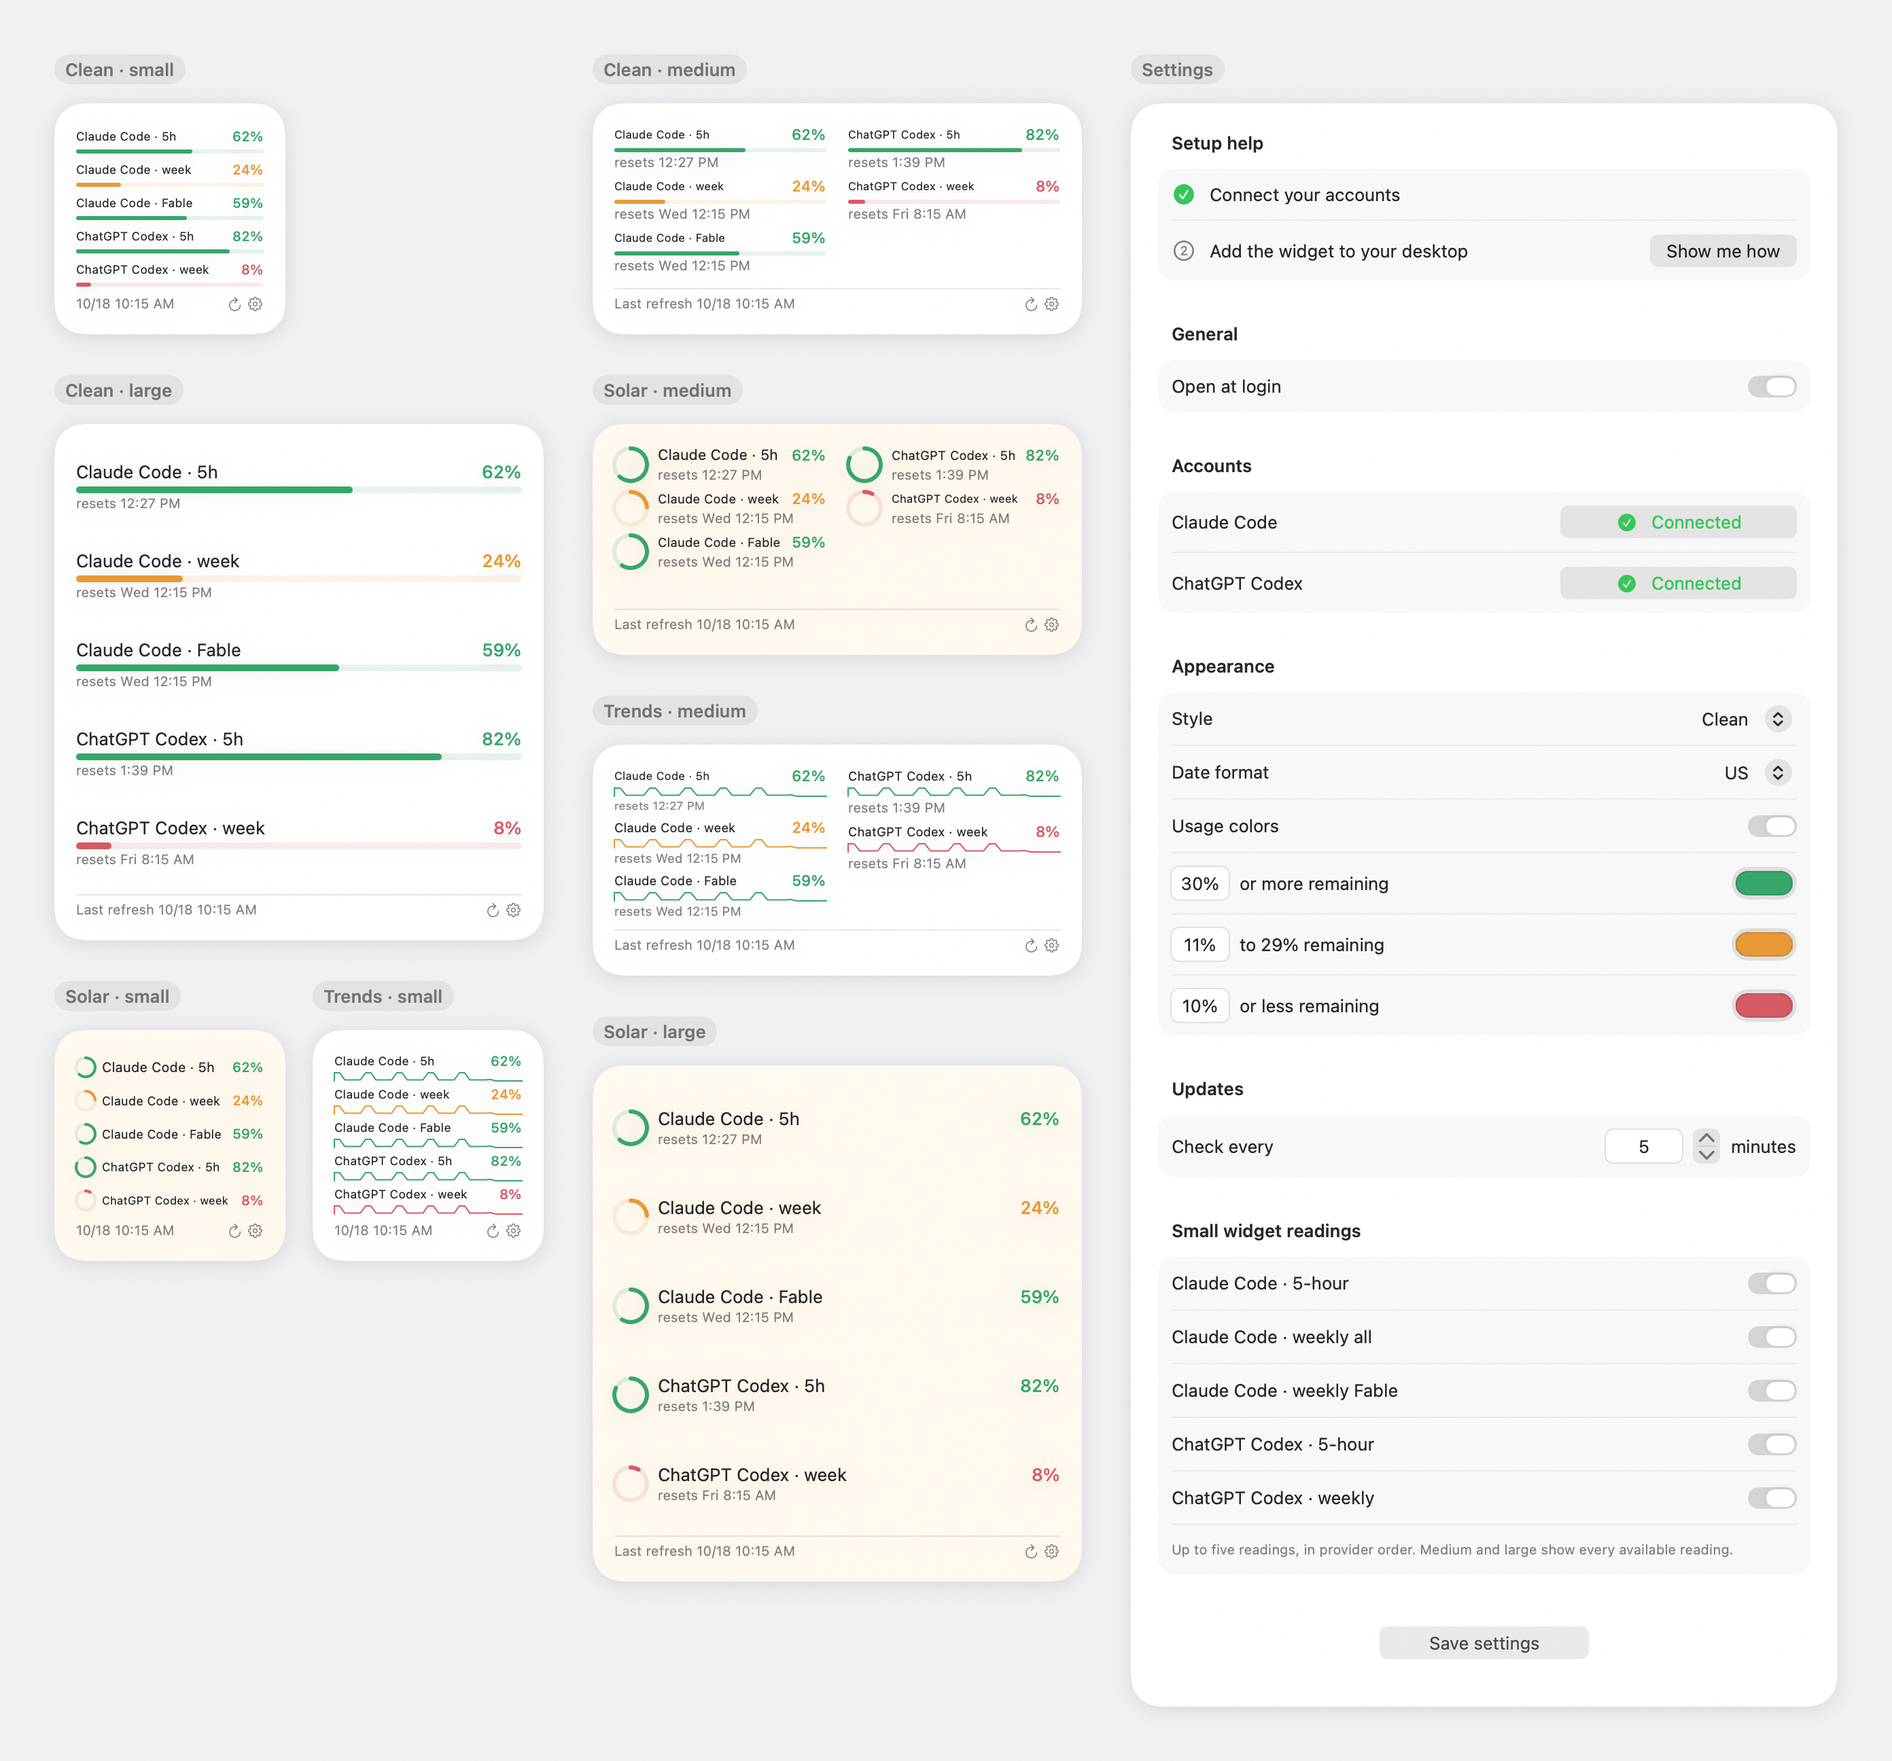
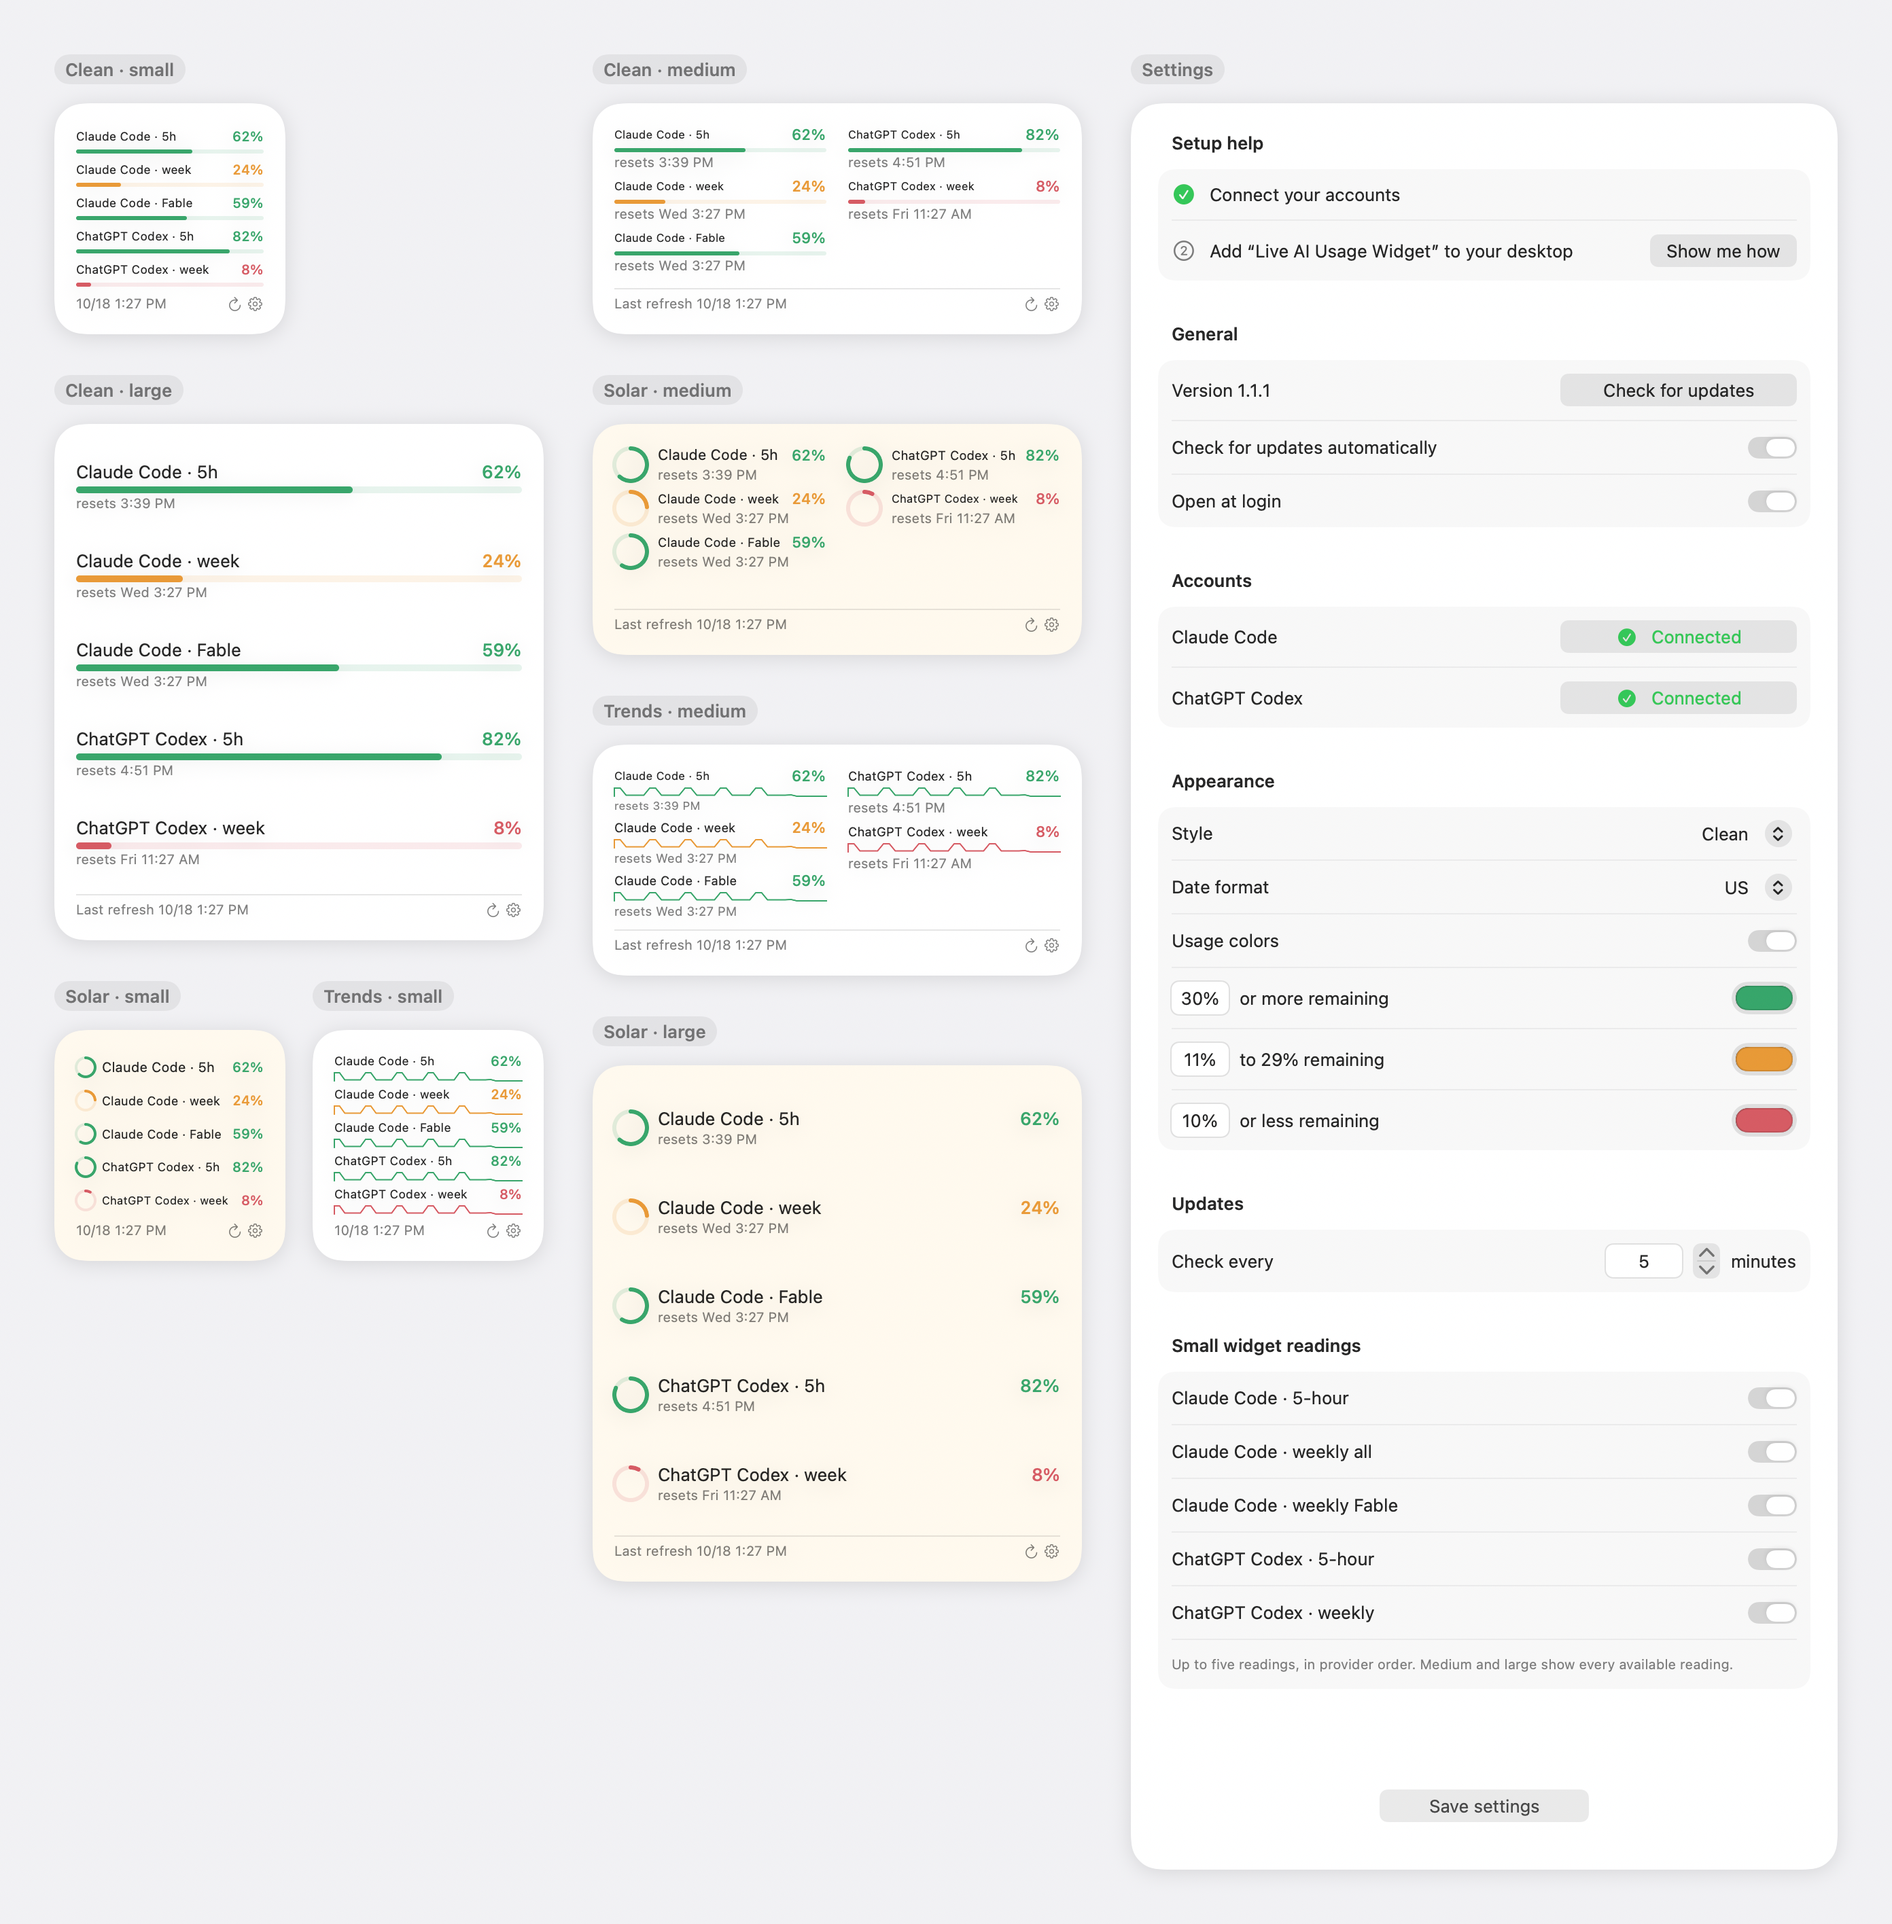
Live AI Usage Widget 1.1.1

diff --git a/tests/RenderOverview.swift b/tests/RenderOverview.swift
@@ -8,9 +8,8 @@ import SwiftUI
         let app = NSApplication.shared
         app.appearance = NSAppearance(named: .aqua)
         let output = URL(fileURLWithPath: CommandLine.arguments[1])
-        var components = Calendar.current.dateComponents([.year, .month, .day], from: Date())
-        components.hour = 10; components.minute = 15
-        let now = Calendar.current.date(from: components)!
+        // Readings must be fresh for accounts to show as connected.
+        let now = Date()
         let hour: TimeInterval = 3600
         let ok = UsageRefresh(status: .ok, lastAttemptAt: now, lastSuccessAt: now, lastFailureAt: nil, failureReason: nil)
         let claude = [UsageWindow(window: "5-hour", usedPercent: 38, resetsAt: now.addingTimeInterval(2.2 * hour)),
@@ -38,6 +37,7 @@ import SwiftUI
         settings.autoDetected = true
         WidgetSettings.sample = settings
         SettingsView.sample = true
+        UsageModel.sampleVersion = CommandLine.arguments.count > 2 ? CommandLine.arguments[2] : nil
 
         func widget(_ style: String, _ size: String) -> some View {
             var copy = settings; copy.style = style
@@ -61,7 +61,7 @@ import SwiftUI
         model.timer?.invalidate()
         model.settings = settings
         model.status = status
-        let settingsHeight: CGFloat = 1180
+        let settingsHeight: CGFloat = 1300
         let host = NSHostingView(rootView: SettingsView(model: model).frame(width: 520, height: settingsHeight))
         host.frame = NSRect(x: 0, y: 0, width: 520, height: settingsHeight)
         let window = NSWindow(contentRect: host.frame, styleMask: [.borderless], backing: .buffered, defer: false)

diff --git a/App/UsageApp.swift b/App/UsageApp.swift
@@ -46,10 +46,12 @@ import Combine
             message = "Saved"
         } catch { message = "Couldn't save settings. Check the color percentages, or reinstall the app." }
     }
-    static var version: String { Bundle.main.object(forInfoDictionaryKey: "CFBundleShortVersionString") as? String ?? "" }
+    /// Set only by the README picture renderer, which has no app bundle.
+    nonisolated(unsafe) static var sampleVersion: String?
+    static var version: String { sampleVersion ?? Bundle.main.object(forInfoDictionaryKey: "CFBundleShortVersionString") as? String ?? "" }
     /// Checks GitHub at launch and then once a day when automatic checks are on; `manual` checks right away.
     func checkForUpdates(manual: Bool = false) {
-        guard manual || (settings.autoUpdates && Date().timeIntervalSince(lastUpdateCheck) >= 86400) else { return }
+        guard !SettingsView.sample, manual || (settings.autoUpdates && Date().timeIntervalSince(lastUpdateCheck) >= 86400) else { return }
         guard updateStatus != "Downloading…" else { return }
         lastUpdateCheck = Date()
         if manual { updateStatus = "Checking…" }

diff --git a/Helper/Reader.swift b/Helper/Reader.swift
@@ -142,7 +142,7 @@ enum UsageReader {
     static func codex(directory: URL, binary: String? = nil, timeout: Double = 15) throws -> [String: Any] {
         let child = try ChildProcess(binary: binary ?? find("codex"), arguments: ["app-server", "--listen", "stdio://"], directory: directory.path)
         defer { child.stop() }
-        try child.sendJSON(["id": 0, "method": "initialize", "params": ["clientInfo": ["name": "live_ai_usage_widget", "title": "Live AI Usage Widget", "version": "1.1.0"]]])
+        try child.sendJSON(["id": 0, "method": "initialize", "params": ["clientInfo": ["name": "live_ai_usage_widget", "title": "Live AI Usage Widget", "version": "1.1.1"]]])
         let start = ProcessInfo.processInfo.systemUptime
         var pending = Data(), total = 0, initialized = false
         while ProcessInfo.processInfo.systemUptime - start < timeout {

diff --git a/scripts/build.py b/scripts/build.py
@@ -34,8 +34,8 @@ def main():
     for folder, executable, bundle, kind in [(app, 'UsageWidget', args.bundle_id, 'APPL'),
                                             (extension, 'UsageWidgetExtension', args.bundle_id + '.widget', 'XPC!')]:
         info = dict(CFBundleDisplayName='Live AI Usage Widget', CFBundleName='Live AI Usage Widget', CFBundleExecutable=executable,
-                    CFBundleIdentifier=bundle, CFBundlePackageType=kind, CFBundleVersion='21',
-                    CFBundleShortVersionString='1.1.0', LSMinimumSystemVersion='14.0', UsageAppGroup=group)
+                    CFBundleIdentifier=bundle, CFBundlePackageType=kind, CFBundleVersion='22',
+                    CFBundleShortVersionString='1.1.1', LSMinimumSystemVersion='14.0', UsageAppGroup=group)
         if kind == 'XPC!':
             info['NSExtension'] = {'NSExtensionPointIdentifier': 'com.apple.widgetkit-extension'}
         else:

diff --git a/scripts/package.py b/scripts/package.py
@@ -34,7 +34,7 @@ def main():
         contents[name] = data
     destination = ROOT / 'dist'
     destination.mkdir(exist_ok=True)
-    archive = destination / 'live-ai-usage-widget-1.1.0-source.zip'
+    archive = destination / 'live-ai-usage-widget-1.1.1-source.zip'
     with zipfile.ZipFile(archive, 'w', compression=zipfile.ZIP_DEFLATED) as output:
         for name, data in sorted(contents.items()):
             info = zipfile.ZipInfo('live-ai-usage-widget/' + name, date_time=(2026, 1, 1, 0, 0, 0))

diff --git a/docs/CLAUDE-HANDOFF.md b/docs/CLAUDE-HANDOFF.md
@@ -1,12 +1,12 @@
 # Maintainer handoff
 
-Current version: **1.1.0 (build 21), Apple Silicon, macOS 14+**, published as a full GitHub release in the public repository. This repository is the whole project; it has no parent workspace.
+Current version: **1.1.1 (build 22), Apple Silicon, macOS 14+**, published as a full GitHub release in the public repository. This repository is the whole project; it has no parent workspace.
 
 ## Current state
 
 - Name: Live AI Usage Widget. Bundle identifier `com.liveaiusagewidget.app`, widget `com.liveaiusagewidget.app.widget`, app group `TEAMID.com.liveaiusagewidget.app`, link scheme `live-ai-usage-widget://`.
 - The app is a menu bar app (no Dock icon): one iconned line per account, then Settings, Check now and Quit. It opens one setup window (Setup help steps, hidden once all are done with a Setup help link to show them, accounts, appearance, updates interval, small-widget readings; Setup help and Save settings centered at the bottom). There is no separate preview window. Connecting needs no Terminal: background install, browser sign-in, and automatic trust of the app's own probe folder. Clean is the default style.
[2 lines of base64/hex data omitted]
 - The README picture `docs/images/overview.png` is drawn by `bash scripts/render_overview.sh` from the app's real views with sample data, then stripped of metadata. `scripts/package.py` refuses PNGs that carry metadata.
 
 Read `docs/VALIDATION.md` for dated evidence and `docs/RELEASE-CHECKLIST.md` for what is still untested.
@@ -19,6 +19,10 @@ Read `docs/VALIDATION.md` for dated evidence and `docs/RELEASE-CHECKLIST.md` for
 4. Push, wait for CI, then create a GitHub prerelease with the app ZIP, source ZIP and both `.sha256` files. Download them back and verify the checksums. Give the app ZIP the asset label "Download for Mac (Apple Silicon) - Live AI Usage Widget X.Y.Z" and update the README Download for Mac link to the new file name.
 
 Keep commits on the GitHub noreply address. Never add credentials, account screenshots or personal paths.
+
+## 1.1.1 (10/18/2026)
+
+From a friend's first install: Claude Code sign-in printed "Paste code here if prompted" and the app stopped the tool, so Authorize hit a refused localhost page; the tool now runs until sign-in ends (10 minutes). Opened from Downloads (App Translocation), the app offers to move itself into Applications (`Mover`). Update check against the latest GitHub release with one-click install (`Updater`): checksum, notarization and same-team signature required; a helper swaps the app after it quits. Claude Code lookup also covers npm, nvm, Bun and Volta. The Claude desktop app's private Claude Code copy is not usable by other apps.
 
 ## 1.1.0 (10/18/2026)
 

diff --git a/README.md b/README.md
@@ -2,13 +2,13 @@
 
 A macOS desktop widget that shows how much of your Claude Code and ChatGPT Codex usage limits are left. Small, medium and large widgets come in Clean (default), Solar and Trends styles. Accounts and data stay on your own Mac.
 
-**[Download for Mac (Apple Silicon)](https://github.com/jeremymorrison77/live-ai-usage-widget/releases/latest/download/Live-AI-Usage-Widget-1.1.0-macOS-arm64.zip)** · version 1.1.0 · macOS 14 or later · M1 or newer
+**[Download for Mac (Apple Silicon)](https://github.com/jeremymorrison77/live-ai-usage-widget/releases/latest/download/Live-AI-Usage-Widget-1.1.1-macOS-arm64.zip)** · version 1.1.1 · macOS 14 or later · M1 or newer
 
 <p align="center"><img src="docs/images/overview.png" alt="Settings window and the widget in all sizes and styles" width="100%"></p>
 
 Pictures are drawn from the app's own views with made-up sample readings, not a real account.
 
-**Version 1.1.0.** Apple Silicon Macs, macOS 14 or later. Signed and notarized by Apple.
+**Version 1.1.1.** Apple Silicon Macs, macOS 14 or later. Signed and notarized by Apple.
 
 ## Download and install
 

diff --git a/docs/VALIDATION.md b/docs/VALIDATION.md
@@ -1,5 +1,9 @@
 # Validation record
 
+## 1.1.1 (build 22) — 10/18/2026
+
+Claude Code sign-in fix, update check and install, Move to Applications. Tests pass, including a fake sign-in that prints the paste-code line. Update download, checksum and notarization/team checks verified against the real 1.1.0 ZIP served locally; a tampered checksum was refused. Notarization Accepted (submission 21d2cbe7-d7ff-43b7-a7c3-ee02d7cfe3a9; app ZIP SHA-256 cd606e48a6eb8dd51b0bdc2cbd6d03f03b61504653750a7efaa0d6b586eecc50). The full one-click swap is first exercised when a later release ships; real Claude sign-in through the fixed flow not yet repeated.
+
 ## 1.1.0 (build 21) — 10/18/2026
 
 Account rows, naming, loading rows and plan-limit labels from owner testing on the development Mac. Tests, signed build and notarization pass (submission beb517a7-cad3-405a-8188-9ce5cfd09bab Accepted; app ZIP SHA-256 66441efd421eeb5e7c2e36277f241245016331a2e703d144ad47cfcb17061f7a). Owner tested each change in the installed app. Clean-machine install and long-term sign-in renewal are still unverified.

diff --git a/CHANGELOG.md b/CHANGELOG.md
@@ -1,6 +1,6 @@
 # Changelog
 
-## Unreleased
+## 1.1.1
 
 Fixed Claude Code browser sign-in (Authorize led to a "can't be reached" page). The app checks for updates and installs them in one click after checking they are Apple-approved and from the same developer. Opened from Downloads, it offers to move itself into Applications. Finds Claude Code installed with npm, nvm, Bun or Volta. Setup help names the widget up front.
 

diff --git a/docs/RELEASE-CHECKLIST.md b/docs/RELEASE-CHECKLIST.md
@@ -1,6 +1,6 @@
 # Release acceptance
 
-Version 1.1.0. A signed, notarized Apple Silicon ZIP is prepared. Notarization establishes Apple's distribution check, not compatibility with every account or Mac.
+Version 1.1.1. A signed, notarized Apple Silicon ZIP is prepared. Notarization establishes Apple's distribution check, not compatibility with every account or Mac.
 
 ## Verified locally
 
